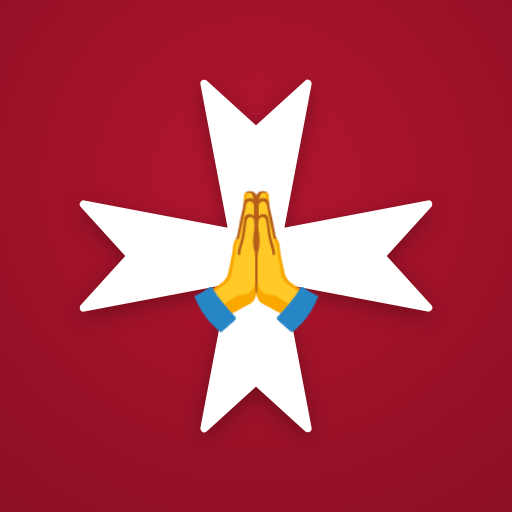
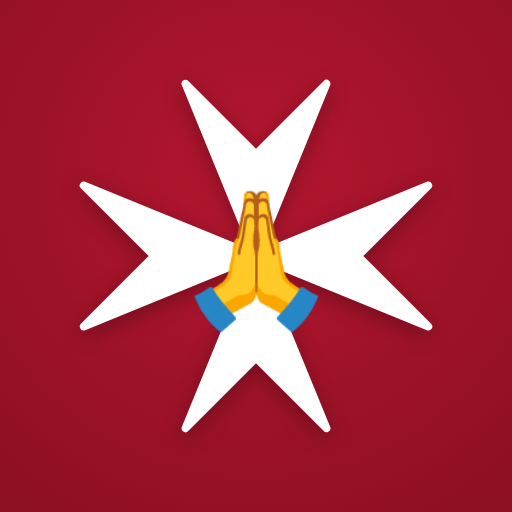
Croix de Malte identique au modèle officiel, mains jointes conservées
Claude-Session: https://claude.ai/code/session_01PLPwRrE3P3uCtTfUiqd7Xw

Changed region(s): [[0.1562, 0.1562, 0.8438, 0.6562], [0.3438, 0.6562, 0.6562, 0.8438]]

diff --git a/index.html b/index.html
@@ -388,7 +388,7 @@ nav.tabs .e{font-size:1.4rem}
   <symbol id="i-mic" viewBox="0 0 24 24"><rect x="9" y="3" width="6" height="11" rx="3"/><path d="M5.5 11a6.5 6.5 0 0 0 13 0M12 17.5V21M9 21h6"/></symbol>
   <symbol id="i-book" viewBox="0 0 24 24"><path d="M3.5 5.5h6A2.5 2.5 0 0 1 12 8v11.5a2.5 2.5 0 0 0-2.5-2.5h-6zM20.5 5.5h-6A2.5 2.5 0 0 0 12 8v11.5a2.5 2.5 0 0 1 2.5-2.5h6z"/></symbol>
   <symbol id="i-x" viewBox="0 0 24 24"><path d="M6.5 6.5l11 11M17.5 6.5l-11 11"/></symbol>
-  <symbol id="i-malte" viewBox="0 0 24 24"><path d="M8.70 1.00L12.00 4.00L15.30 1.00L13.50 10.50L23.00 8.70L20.00 12.00L23.00 15.30L13.50 13.50L15.30 23.00L12.00 20.00L8.70 23.00L10.50 13.50L1.00 15.30L4.00 12.00L1.00 8.70L10.50 10.50Z" fill="currentColor" stroke="currentColor" stroke-width=".5" stroke-linejoin="round"/></symbol>
+  <symbol id="i-malte" viewBox="0 0 24 24"><path d="M7.50 1.00L12.00 5.50L16.50 1.00L12.00 12.00L23.00 7.50L18.50 12.00L23.00 16.50L12.00 12.00L16.50 23.00L12.00 18.50L7.50 23.00L12.00 12.00L1.00 16.50L5.50 12.00L1.00 7.50L12.00 12.00Z" fill="currentColor" stroke="currentColor" stroke-width=".5" stroke-linejoin="round"/></symbol>
   <symbol id="i-chapelet" viewBox="0 0 24 24"><circle cx="3.20" cy="3.00" r="1.2" fill="currentColor" stroke="none"/><circle cx="5.40" cy="6.76" r="1.2" fill="currentColor" stroke="none"/><circle cx="7.60" cy="9.45" r="1.2" fill="currentColor" stroke="none"/><circle cx="9.80" cy="11.06" r="1.2" fill="currentColor" stroke="none"/><circle cx="14.20" cy="11.06" r="1.2" fill="currentColor" stroke="none"/><circle cx="16.40" cy="9.45" r="1.2" fill="currentColor" stroke="none"/><circle cx="18.60" cy="6.76" r="1.2" fill="currentColor" stroke="none"/><circle cx="20.80" cy="3.00" r="1.2" fill="currentColor" stroke="none"/><circle cx="12" cy="11.6" r="1.5" fill="currentColor" stroke="none"/><circle cx="12" cy="14.7" r="1.05" fill="currentColor" stroke="none"/><path d="M12 16.2v6.6M9.4 18.6h5.2" stroke-width="2"/></symbol>
   <symbol id="i-stop" viewBox="0 0 24 24"><rect x="7" y="7" width="10" height="10" rx="1.5" fill="currentColor"/></symbol>
   <symbol id="grotte" viewBox="0 0 100 100"><path d="M12 90 V52 C12 26 30 10 50 10 C70 10 88 26 88 52 V90" fill="none" stroke="currentColor" stroke-width="7" stroke-linecap="round"/><path d="M50 30 l4 10 h10 l-8 6 3 10 -9 -6 -9 6 3 -10 -8 -6 h10 z" fill="currentColor"/><path d="M34 90 V72 a16 16 0 0 1 32 0 V90" fill="none" stroke="currentColor" stroke-width="5"/></symbol>

diff --git a/sw.js b/sw.js
@@ -1,5 +1,5 @@
 // Mode hors ligne minimal : la page et les icônes sont gardées en mémoire ; les intentions viennent toujours du réseau.
-const CACHE = "intentions-v21";
+const CACHE = "intentions-v22";
 const FICHIERS = ["./", "index.html", "manifest.webmanifest", "icon-192.png", "icon-512.png"];
 self.addEventListener("install", (e) => { e.waitUntil(caches.open(CACHE).then((c) => c.addAll(FICHIERS)).then(() => self.skipWaiting())); });
 self.addEventListener("activate", (e) => { e.waitUntil(caches.keys().then((ks) => Promise.all(ks.filter((k) => k !== CACHE).map((k) => caches.delete(k)))).then(() => self.clients.claim())); });
